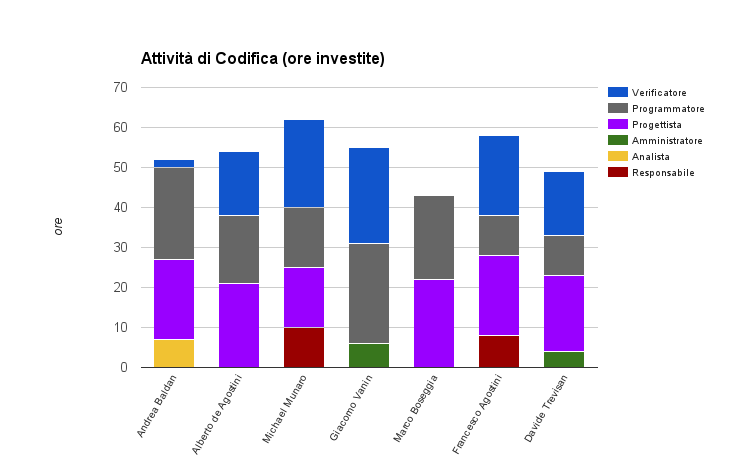
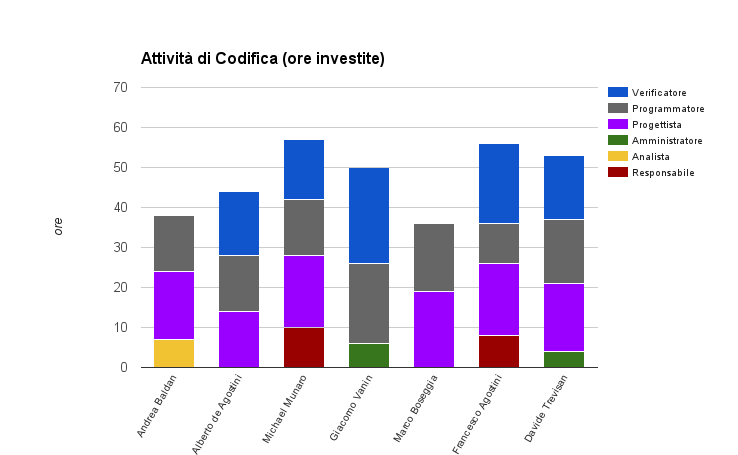
Modificato il piano di progetto e aggiunte tutte le tabelle e i grafici mancanti, aggiornato tutto il resto. non compila correttamente

diff --git a/RR/Esterni/PianoDiProgetto_v0.1.1.tex b/RR/Esterni/PianoDiProgetto_v0.1.1.tex
@@ -42,7 +42,7 @@
 \setcounter{page}{1}
 \begin{flushleft}
   \vspace{0cm}
-         {\large\bfseries Diario delle modifiche \par}
+         {\large\bfseries Diario delle modifiche}
 \end{flushleft}
 \vspace{0cm}
 \begin{center}
@@ -282,13 +282,13 @@ Nell'attività di Analisi, i componenti ricopriranno i ruoli di progetto secondo
     \hline
     & \textbf{Inv} & \textbf{Ren} & \textbf{Inv} & \textbf{Ren} & \textbf{Inv} & \textbf{Ren} & \textbf{Inv} & \textbf{Ren} & \textbf{Inv} & \textbf{Ren} & \textbf{Inv} & \textbf{Ren} & \textbf{Inv} & \textbf{Ren}\\
     \hline
-    Andrea Baldan & 13 & 12 & & & 11 & 8 & & & & & 12 & 10 & 36 & 30\\
-    Alberto de Agostini & 12 & 11 & 12 & 10 & & & & & & & 12 & 9 & 36 & 30\\
-    Michael Munaro & & & 17 & 15 & & & & & & & 17 & 14 & 34 & 29\\
-    Giacomo Vanin & & & 17 & 14 & & & & & & & 19 & 17 & 36 & 31\\
-    Marco Boseggia & & & 18 & 16 & & & & & & & 16 & 15 & 34 & 31\\
-    Francesco Agostini & & & 10 & 9 & 10 & 8 & & & & & 14 & 12 & 34 & 29\\
-    Davide Trevisan & & & 14 & 12 & & & & & & & 13 & 11 & 27 & 23\\
+    Andrea Baldan & 12 & 10 & & & 10 & 8 & & & & & 12 & 9 & 34 & 27\\
+    Alberto de Agostini & 12 & 9 & 12 & 10 & & & & & & & 18 & 15 & 42 & 34\\
+    Michael Munaro & & & 14 & 12 & & & & & & & 16 & 14 & 30 & 26\\
+    Giacomo Vanin & & & 14 & 12 & & & & & & & 16 & 15 & 30 & 27\\
+    Marco Boseggia & & & 14 & 12 & & & & & & & 16 & 15 & 30 & 27\\
+    Francesco Agostini & & & 5 & 4 & 10 & 8 & & & & & 14 & 12 & 29 & 24\\
+    Davide Trevisan & & & 14 & 12 & & & & & & & 16 & 13 & 30 & 25\\
     \hline
   \end{tabular}
 \end{center}
@@ -316,13 +316,13 @@ Durante l'attività di Progettazione, i componenti ricopriranno i ruoli di proge
     \hline
     & \textbf{Inv} & \textbf{Ren} & \textbf{Inv} & \textbf{Ren} & \textbf{Inv} & \textbf{Ren} & \textbf{Inv} & \textbf{Ren} & \textbf{Inv} & \textbf{Ren} & \textbf{Inv} & \textbf{Ren} & \textbf{Inv} & \textbf{Ren}\\
     \hline
-    Andrea Baldan & & & & & & & 17 & 14 & & & 12 & 11 & 29 & 25\\
-    Alberto de Agostini & & & 5 & 4 & 4 & 4 & 20 & 18 & & & & & 29 & 26\\
-    Michael Munaro & & & & & 6 & 5 & & & & & 19 & 17 & 25 & 22\\
+    Andrea Baldan & & & 8 & 6 & & & 17 & 14 & & & 12 & 11 & 37 & 31\\
+    Alberto de Agostini & & & 6 & 4 & 5 & 5 & 20 & 18 & & & & & 31 & 27\\
+    Michael Munaro & & & 7 & 5 & & & & & & & 18 & 15 & 25 & 20\\
     Giacomo Vanin & 11 & 10 & & & & & 18 & 16 & & & & & 29 & 26\\
-    Marco Boseggia & 8 & 7 & 7 & 6 & 4 & 3 & 4 & 3 & & & 17 & 15 & 40 & 34\\
+    Marco Boseggia & 8 & 7 & & & 4 & 3 & 6 & 5 & & & 17 & 15 & 35 & 30\\
     Francesco Agostini & & & 8 & 7 & & & 17 & 15 & & & & & 25 & 22\\
-    Davide Trevisan & 6 & 6 & 8 & 6 & & & 18 & 16 & & & 9 & 8 & 41 & 36\\
+    Davide Trevisan & & & & & & & 16 & 13 & & & 9 & 8 & 25 & 21\\
     \hline
   \end{tabular}
 \end{center}
@@ -351,13 +351,13 @@ Durante l'attività di Codifica, i componenti ricopriranno i ruoli di progetto s
     \hline
     & \textbf{Inv} & \textbf{Ren} & \textbf{Inv} & \textbf{Ren} & \textbf{Inv} & \textbf{Ren} & \textbf{Inv} & \textbf{Ren} & \textbf{Inv} & \textbf{Ren} & \textbf{Inv} & \textbf{Ren} & \textbf{Inv} & \textbf{Ren}\\
     \hline
-    Andrea Baldan & & & 7 & 6 & & & 20 & 18 & 23 & 21 & 2 & 2 & 52 & 47\\
-    Alberto de Agostini & & & & & & & 21 & 18 & 17 & 15 & 16 & 12 & 54 & 45\\
-    Michael Munaro & 10 & 9 & & & & & 15 & 13 & 15 & 13 & 22 & 17 & 62 & 52\\
-    Giacomo Vanin & & & & & 6 & 5 & & & 25 & 22 & 24 & 18 & 55 & 45\\
-    Marco Boseggia & & & & & & & 22 & 19 & 21 & 19 & & & 43 & 38\\
-    Francesco Agostini & 8 & 7 & & & & & 20 & 18 & 10 & 9 & 20 & 18 & 58 & 52\\
-    Davide Trevisan & & & & & 4 & 3 & 19 & 17 & 10 & 9 & 16 & 14 & 49 & 43\\
+    Andrea Baldan & & & 7 & 6 & & & 17 & 15 & 14 & 12 & & & 38 & 33\\
+    Alberto de Agostini & & & & & & & 14 & 11 & 14 & 12 & 16 & 12 & 44 & 35\\
+    Michael Munaro & 10 & 9 & & & & & 18 & 15 & 14 & 11 & 15 & 12 & 57 & 47\\
+    Giacomo Vanin & & & & & 6 & 5 & & & 20 & 18 & 24 & 18 & 50 & 41\\
+    Marco Boseggia & & & & & & & 19 & 16 & 17 & 15 & & & 36 & 31\\
+    Francesco Agostini & 8 & 7 & & & & & 18 & 16 & 10 & 9 & 20 & 18 & 56 & 50\\
+    Davide Trevisan & & & & & 4 & 3 & 17 & 15 & 16 & 14 & 16 & 14 & 53 & 46\\
     \hline
   \end{tabular}
 \end{center}
@@ -376,6 +376,41 @@ delle ore riservate per l'attività \textbf{Progettazione di Dettaglio}.
   \end{subfigure}
 \end{figure}
 \newpage
+\subsubsection{Verifica e Validazione}
+Durante le attività di verifica e di validazione, i componenti ricopriranno i ruoli di progetto secondo la distribuzione seguente:
+\begin{center}
+  \scriptsize
+  \begin{tabular}{| c | p{0.35cm}  p{0.35cm} | p{0.35cm}  p{0.35cm} | p{0.35cm}  p{0.35cm} | p{0.35cm}  p{0.35cm} | p{0.35cm}  p{0.35cm} | p{0.35cm}  p{0.35cm} | p{0.35cm}  p{0.35cm} |}
+    \hline
+    \textbf{Nome} & \multicolumn{2}{|c|}{\textbf{Res}} & \multicolumn{2}{|c|}{\textbf{An}} & \multicolumn{2}{|c|}{\textbf{Amm}} & \multicolumn{2}{|c|}{\textbf{Pr}} & \multicolumn{2}{|c|}{\tex$
+    \hline
+    & \textbf{Inv} & \textbf{Ren} & \textbf{Inv} & \textbf{Ren} & \textbf{Inv} & \textbf{Ren} & \textbf{Inv} & \textbf{Ren} & \textbf{Inv} & \textbf{Ren} & \textbf{Inv} & \textbf{Ren} & \text$
+    \hline
+    Andrea Baldan & & & & & & & 4 & 4 & 8 & 6 & & & 12 & 10\\
+    Alberto de Agostini & & & & & & & 4 & 3 & 3 & 3 & & & 7 & 6\\
+    Michael Munaro & & & & & 6 & 5 & & & & & 7 & 6 & 18 & 11\\
+    Giacomo Vanin & & & 4 & 3 & & & & & 5 & 4 & & & 9 & 7\\
+    Marco Boseggia & & & 6 & 4 & & & 4 & 3 & & & 6 & 5 & 16 & 12\\
+    Francesco Agostini & & & 6 & 5 & & & 2 & 2 & & & & & 8 & 7\\
+    Davide Trevisan & 6 & 6 & & & & & & & 5 & 4 & & & 11 & 10\\
+    \hline
+  \end{tabular}
+\end{center}
+\normalsize I seguenti grafici illustrano le ore investite per Persona suddivise
+tra ore investite e ore rendicontate, per le attività di Verifica e Validazione, comprensive
+delle ore riservate per l'attività \textbf{Progettazione di Dettaglio}.
+\begin{figure}[H]
+  \begin{subfigure}[H]{0.47\textwidth}
+    \includegraphics[width=1.2\textwidth,keepaspectratio]{VerificaConInvestimento.png}
+    \caption{Ore con investimento, attività di Verifica e Validazione}
+  \end{subfigure}
+  \qquad
+  \begin{subfigure}[H]{0.47\textwidth}
+    \includegraphics[width=1.2\textwidth,keepaspectratio]{VerificaConRendicontazione.png}
+    \caption{Ore con rendicontazione, attività di Verifica e Validazione}
+  \end{subfigure}
+\end{figure}
+\newpage
 \subsubsection{Totale}
 Per la durata complessiva del progetto, i componenti ricopriranno i ruoli di progetto secondo la distribuzione seguente:
 \begin{center}
@@ -386,13 +421,13 @@ Per la durata complessiva del progetto, i componenti ricopriranno i ruoli di pro
     \hline
     & \textbf{Inv} & \textbf{Ren} & \textbf{Inv} & \textbf{Ren} & \textbf{Inv} & \textbf{Ren} & \textbf{Inv} & \textbf{Ren} & \textbf{Inv} & \textbf{Ren} & \textbf{Inv} & \textbf{Ren} & \textbf{Inv} & \textbf{Ren}\\
     \hline
-    Andrea Baldan & 13 & 12 & 7 & 6 & 11 & 8 & 37 & 32 & 23 & 21 & 26 & 23 & 117 & 102\\
-    Alberto de Agostini & 12 & 11 & 17 & 14 & 4 & 4 & 41 & 36 & 17 & 15 & 28 & 21 & 119 & 101\\
-    Michael Munaro & 10 & 9 & 17 & 15 & 6 & 5 & 15 & 13 & 15 & 13 & 58 & 48 & 121 & 103\\
-    Giacomo Vanin & 11 & 10 & 17 & 14 & 6 & 5 & 18 & 16 & 25 & 22 & 43 & 35 & 120 & 102\\
-    Marco Boseggia & 8 & 7 & 25 & 22 & 4 & 3 & 26 & 22 & 21 & 19 & 33 & 30 & 117 & 103\\
-    Francesco Agostini & 8 & 7 & 18 & 16 & 10 & 8 & 37 & 33 & 10 & 9 & 34 & 30 & 117 & 103\\
-    Davide Trevisan & 6 & 6 & 22 & 18 & 4 & 3 & 37 & 33 & 10 & 9 & 38 & 33 & 117 & 102\\
+    Andrea Baldan & 12 & 10 & 15 & 12 & 10 & 8 & 38 & 33 & 22 & 18 & 24 & 20 & 121 & 101\\
+    Alberto de Agostini & 12 & 9 & 18 & 14 & 5 & 5 & 38 & 32 & 17 & 15 & 34 & 27 & 124 & 102\\
+    Michael Munaro & 10 & 9 & 21 & 17 & 6 & 5 & 18 & 15 & 14 & 11 & 56 & 47 & 125 & 104\\
+    Giacomo Vanin & 11 & 10 & 18 & 15 & 6 & 5 & 18 & 16 & 25 & 22 & 43 & 34 & 121 & 102\\
+    Marco Boseggia & 8 & 7 & 20 & 16 & 4 & 3 & 29 & 24 & 17 & 15 & 39 & 35 & 117 & 100\\
+    Francesco Agostini & 8 & 7 & 19 & 16 & 10 & 8 & 37 & 33 & 10 & 9 & 34 & 30 & 118 & 103\\
+    Davide Trevisan & 6 & 6 & 14 & 12 & 4 & 3 & 33 & 28 & 21 & 18 & 41 & 35 & 119 & 102\\
     \hline
   \end{tabular}
 \end{center}
@@ -423,14 +458,14 @@ Nella fase di Analisi, le ore tra i ruoli sono state divise nel seguente modo:
     \hline
     \textbf{Ruolo} & \textbf{Ore} & \textbf{Costo}\\
     \hline
-    Responsabile & 25 & 750\\
-    Amministratore & 21 & 420\\
-    Analista & 88 & 2200\\
+    Responsabile & 24 & 720\\
+    Analista & 73 & 1825\\
+    Amministratore & 20 & 400\\
     Progettista & 0 & 0\\
-    Verificatore & 103 & 1545 \\
-    Programmatore & 0 & 0 \\
+    Programmatore & 0 & 0\\
+    Verificatore & 111 & 1665 \\
     \hline
-    \textbf{Totale} & 237 & 4915\\
+    \textbf{Totale} & 228 & 4610\\
     \hline
   \end{tabular}
   \qquad
@@ -440,14 +475,14 @@ Nella fase di Analisi, le ore tra i ruoli sono state divise nel seguente modo:
     \hline
     \textbf{Ruolo} & \textbf{Ore} & \textbf{Costo}\\
     \hline
-    Responsabile & 23 & 690\\
+    Responsabile & 19 & 570\\
+    Analista & 62 & 1550\\
     Amministratore & 16 & 320\\
-    Analista & 76 & 1900\\
     Progettista & 0 & 0\\
-    Verificatore & 88 & 1320 \\
-    Programmatore & 0 & 0 \\
+    Programmatore & 0 & 0\\
+    Verificatore & 94 & 1410 \\
     \hline
-    \textbf{Totale} & 203 & 4230\\
+    \textbf{Totale} & 191 & 3850\\
     \hline
   \end{tabular}
 \end{center}
@@ -474,14 +509,14 @@ Durante l'attività di Progettazione, le ore tra i ruoli sono state divise nel s
     \hline
     \textbf{Ruolo} & \textbf{Ore} & \textbf{Costo}\\
     \hline
-    Responsabile & 19 & 570\\
-    Amministratore & 14 & 280\\
-    Analista & 28 & 700\\
+    Responsabile & 19 & 570 \\
+    Analista & 29 & 725 \\
+    Amministratore & 9 & 180 \\
     Progettista & 94 & 2068\\
-    Verificatore & 63 & 945 \\
-    Programmatore & 0 & 0 \\
+    Programmatore & 0 & 0\\
+    Verificatore & 56 & 840 \\
     \hline
-    \textbf{Totale} & 218 & 4563\\
+    \textbf{Totale} & 207 & 4283\\
     \hline
   \end{tabular}
   \qquad
@@ -492,13 +527,13 @@ Durante l'attività di Progettazione, le ore tra i ruoli sono state divise nel s
     \textbf{Ruolo} & \textbf{Ore} & \textbf{Costo}\\
     \hline
     Responsabile & 17 & 510\\
-    Amministratore & 12 & 240\\
-    Analista & 23 & 575\\
-    Progettista & 82 & 1804\\
-    Verificatore & 55 & 825 \\
-    Programmatore & 0 & 0 \\
+    Analista & 22 & 550\\
+    Amministratore & 8 & 160\\
+    Progettista & 81 & 1782\\
+    Programmatore & 0 & 0\\
+    Verificatore & 49 & 735\\
     \hline
-    \textbf{Totale} & 189 & 3954\\
+    \textbf{Totale} & 177 & 3737 \\
     \hline
   \end{tabular}
 \end{center}
@@ -525,14 +560,14 @@ Durante l'attività di Codifica, le ore tra i ruoli sono state divise nel seguen
     \hline
     \textbf{Ruolo} & \textbf{Ore} & \textbf{Costo}\\
     \hline
-    Responsabile & 24 & 720\\
-    Amministratore & 10 & 200\\
+    Responsabile & 18 & 540 \\
     Analista & 7 & 175\\
-    Progettista & 119 & 2618\\
-    Verificatore & 121 & 1455 \\
-    Programmatore & 97 & 1815 \\
+    Amministratore & 10 & 200\\
+    Progettista & 103 & 2266\\
+    Programmatore & 105 & 1575\\ 
+    Verificatore & 91 & 1365\\
     \hline
-    \textbf{Totale} & 378 & 6983\\
+    \textbf{Totale} & 334 & 6121\\
     \hline
   \end{tabular}
   \qquad
@@ -542,14 +577,14 @@ Durante l'attività di Codifica, le ore tra i ruoli sono state divise nel seguen
     \hline
     \textbf{Ruolo} & \textbf{Ore} & \textbf{Costo}\\
     \hline
-    Responsabile & 22 & 660\\
-    Amministratore & 8 & 160\\
+    Responsabile & 16 & 480\\
     Analista & 6 & 150\\
-    Progettista & 105 & 2310\\
-    Verificatore & 76 & 1140 \\
-    Programmatore & 108 & 1620 \\
+    Amministratore & 8 & 160\\
+    Progettista & 88 & 1936\\
+    Programmatore & 91 & 1365\\
+    Verificatore & 74 & 1110\\
     \hline
-    \textbf{Totale} & 325 & 6040\\
+    \textbf{Totale} & 283 & 5201\\
     \hline
   \end{tabular}
 \end{center}
@@ -566,6 +601,57 @@ I grafici a seguire rappresentano l'influenza di ciascun ruolo sul totale delle 
   \end{subfigure}
 \end{figure}
 \newpage
+\subsubsection{Verifica e Validazione}
+Durante le attività di Verifica e Validazione, le ore tra i ruoli sono state divise nel seguente modo:
+\begin{center}
+  \normalsize
+  \begin{tabular}{| c | c | c |}
+    \hline
+    \multicolumn{3}{|c|}{\textbf{Con investimento}}\\
+    \hline
+    \textbf{Ruolo} & \textbf{Ore} & \textbf{Costo}\\
+    \hline
+    Responsabile & 6 & 180 \\
+    Analista & 16 & 400\\
+    Amministratore & 6 & 120\\
+    Progettista & 14 & 308\\
+    Programmatore & 21 & 315\\
+    Verificatore & 13 & 195\\
+    \hline
+    \textbf{Totale} & 81 & 1518\\
+    \hline
+  \end{tabular}
+  \qquad
+  \begin{tabular}{| c | c | c |}
+    \hline
+    \multicolumn{3}{|c|}{\textbf{Senza investimento}}\\
+    \hline
+    \textbf{Ruolo} & \textbf{Ore} & \textbf{Costo}\\
+    \hline
+    Responsabile & 6 & 180\\
+    Analista & 12 & 300\\
+    Amministratore & 5 & 100\\
+    Progettista & 12 & 264\\
+    Programmatore & 17 & 255\\
+    Verificatore & 11 & 165\\
+    \hline
+    \textbf{Totale} & 63 & 1264\\
+    \hline
+  \end{tabular}
+\end{center}
+I grafici a seguire rappresentano l'influenza di ciascun ruolo sul totale delle ore e dei costi durante le attività di Verifica e Validazione
+\begin{figure}[H]
+  \begin{subfigure}[H]{0.47\textwidth}
+    \includegraphics[width=1.2\textwidth,keepaspectratio]{VerificaCC.png}
+    \caption{Costi con investimento, attività di Verifica e Validazione}
+  \end{subfigure}
+  \qquad
+  \begin{subfigure}[H]{0.47\textwidth}
+    \includegraphics[width=1.2\textwidth,keepaspectratio]{VerificaSC.png}
+    \caption{Costi senza investimento, attività di Verifica e Validazione}
+  \end{subfigure}
+\end{figure}
+\newpage
 \subsection{Totale}
 Le ore rendicontate totali, previste per la realizzazione del prodotto, senza
 investimento sono:
@@ -577,31 +663,31 @@ investimento sono:
     \hline
     \textbf{Ruolo} & \textbf{Ore} & \textbf{Costo}\\
     \hline
-    Responsabile & 68 & 2040\\
+    Responsabile & 65 & 2010 \\
+    Analista & 125 & 3125\\
     Amministratore & 45 & 900\\
-    Analista & 123 & 3075\\
-    Progettista & 213 & 4686\\
-    Verificatore & 263 & 3945 \\
-    Programmatore & 121 & 1815 \\
+    Progettista & 211 & 4642\\
+    Programmatore & 126 & 1890\\
+    Verificatore & 271 & 4065\\
     \hline
-    \textbf{Totale} & 833 & 16461\\
+    \textbf{Totale} & 845 & 16632\\
     \hline
   \end{tabular}
   \qquad
   \begin{tabular}{| c | c | c |}
     \hline
-    \multicolumn{2}{|c|}{\textbf{Senza investimento}}\\
+    \multicolumn{3}{|c|}{\textbf{Senza investimento}}\\
     \hline
     \textbf{Ruolo} & \textbf{Ore} & \textbf{Costo}\\
     \hline
-    Responsabile & 62 & 1860\\
-    Amministratore & 36 & 720\\
-    Analista & 105 & 2625\\
-    Progettista & 187 & 4114\\
-    Verificatore & 219 & 3285\\
-    Programmatore & 108 & 1620 \\
+    Responsabile & 58 & 1740\\
+    Analista & 102 & 2550\\
+    Amministratore & 37 & 740\\
+    Progettista & 181 & 3982\\
+    Programmatore & 108 & 1620\\
+    Verificatore & 228 & 3420\\
     \hline
-    \textbf{Totale} & 717 & 14224 \\
+    \textbf{Totale} & 714 & 14052 \\
     \hline
   \end{tabular}
 \end{center}
